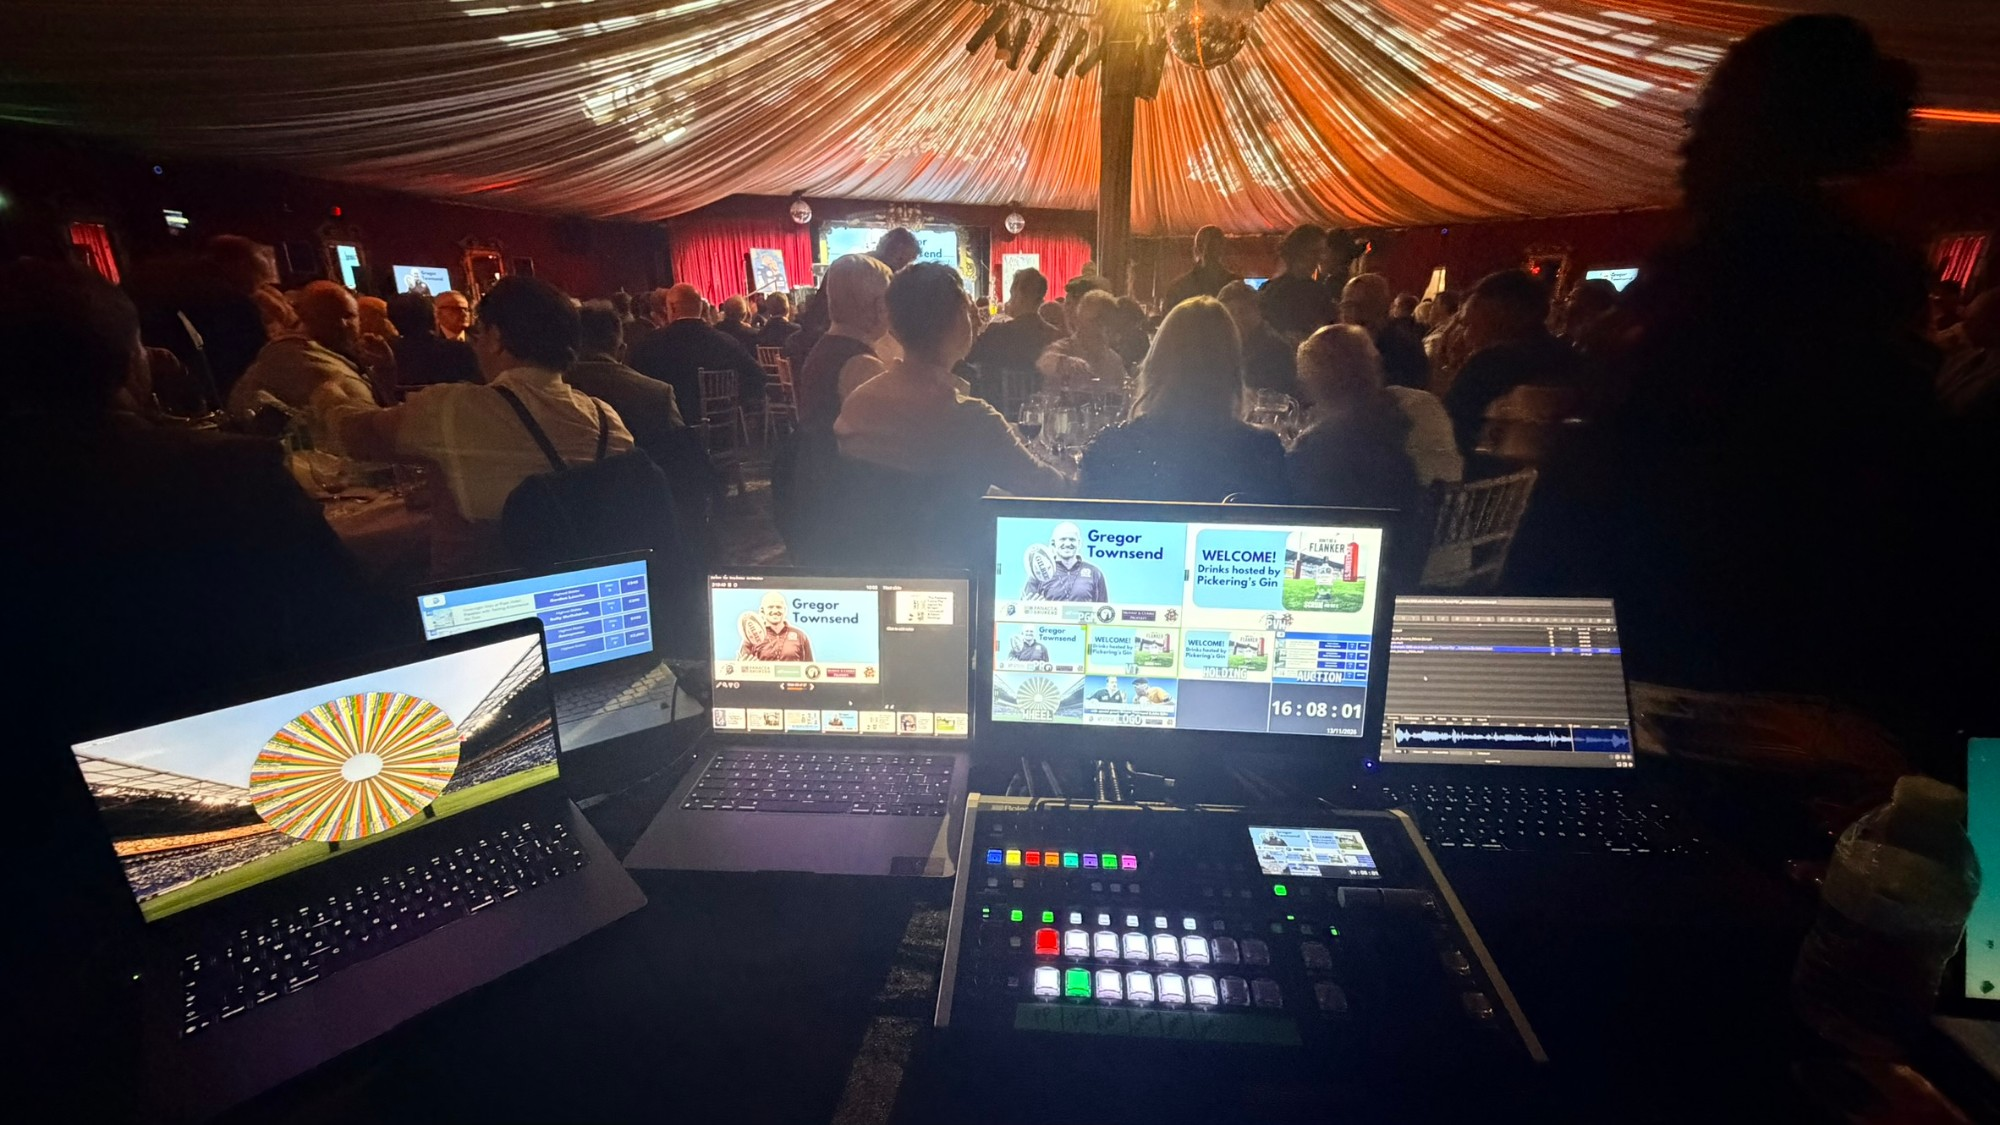
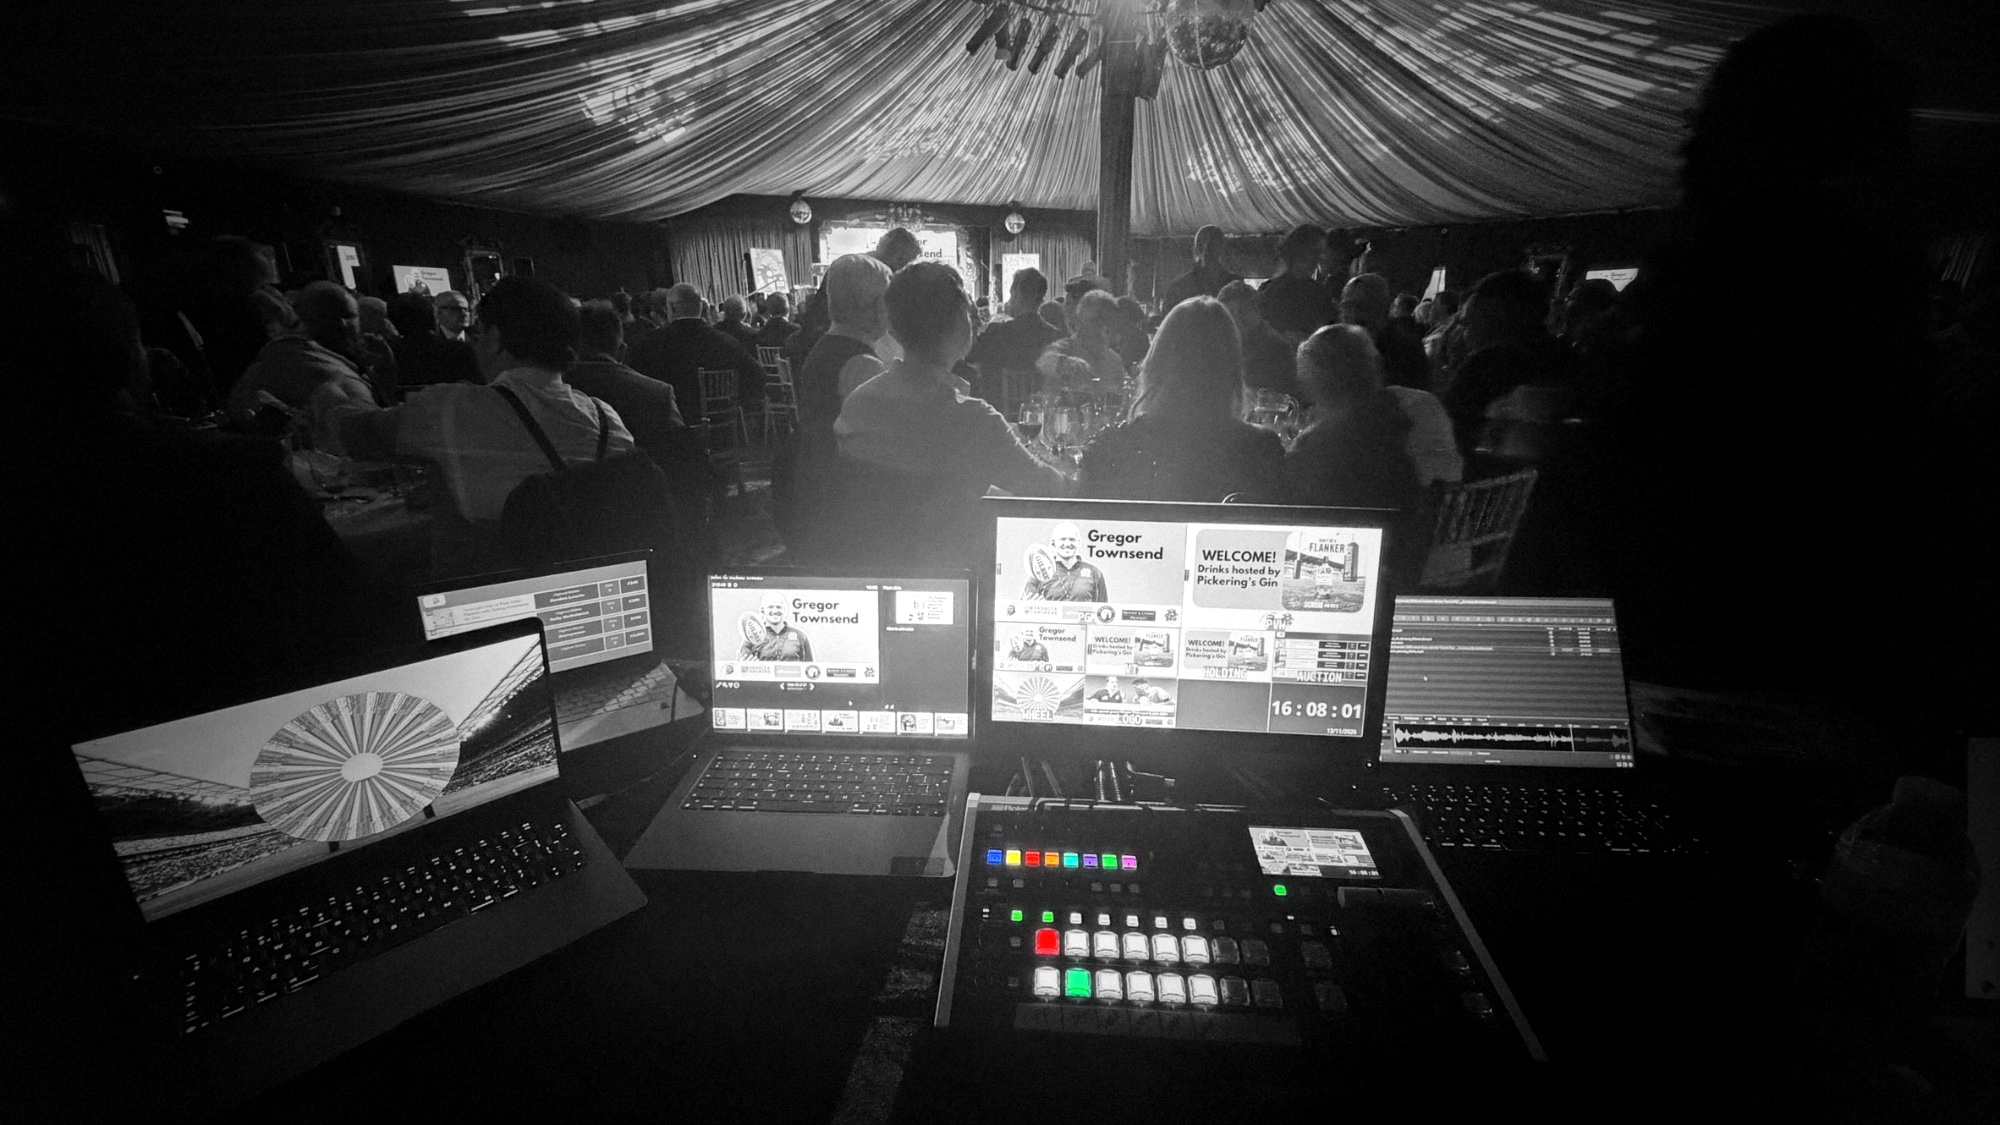
Conferences: gala desk photo in black and white, controller buttons in colour like the rest

diff --git a/index.html b/index.html
@@ -103,7 +103,7 @@
 
     <section class="scene flip tape-pink" aria-label="Conferences">
       <div class="sticky">
-        <div class="shot"><img src="assets/photo-conferences.jpg?v=25" alt="The tech desk at a gala dinner: Roland V-160HD vision mixer, multiview, playback laptops and a spin-the-wheel screen, the room beyond" loading="lazy"><span class="big">Conferences</span></div>
+        <div class="shot"><img src="assets/photo-conferences.jpg?v=26" alt="The tech desk at a gala dinner in black and white, only the lit buttons on the Roland V-160HD vision mixer in colour, the room beyond" loading="lazy"><span class="big">Conferences</span></div>
         <div class="copy">
           <span class="num">02</span>
           <h3>Conferences</h3>
